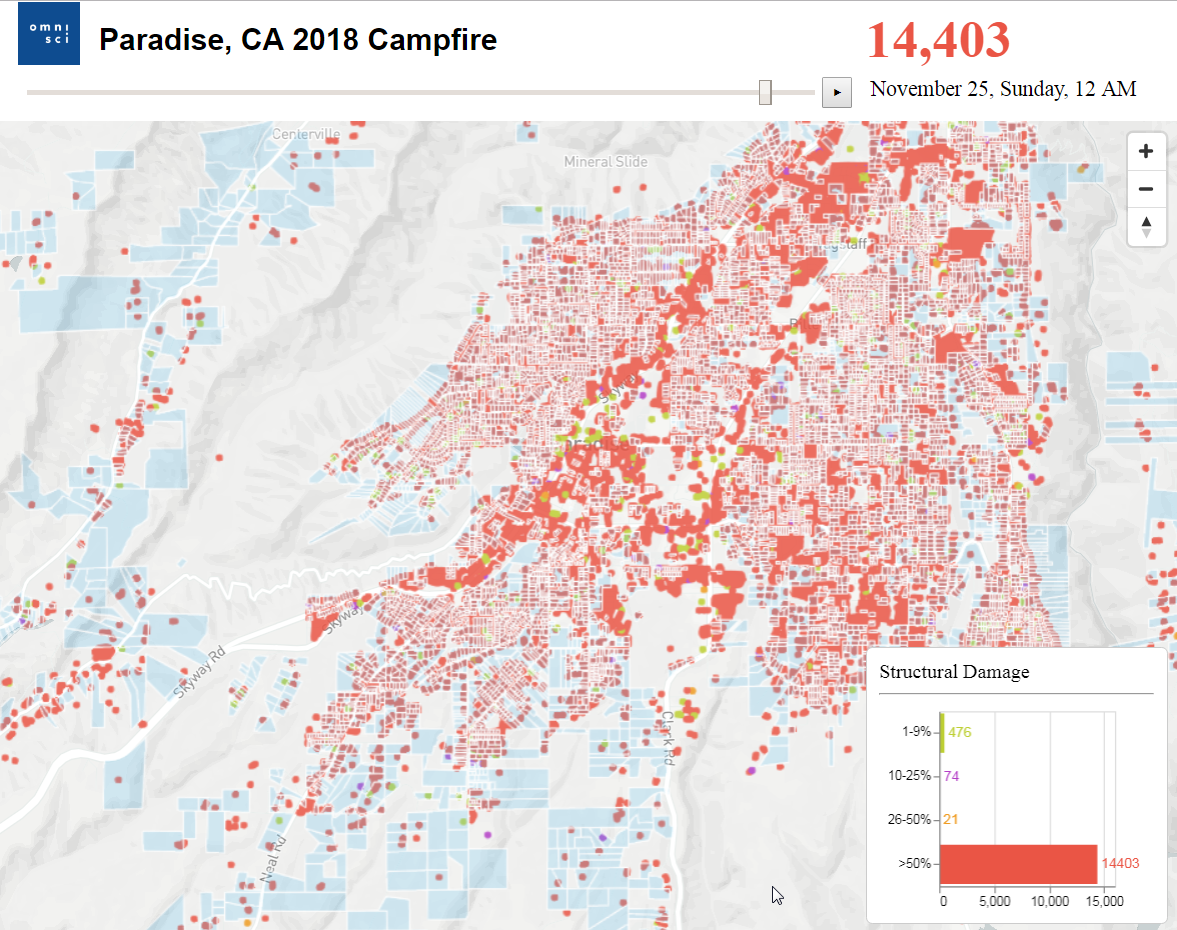
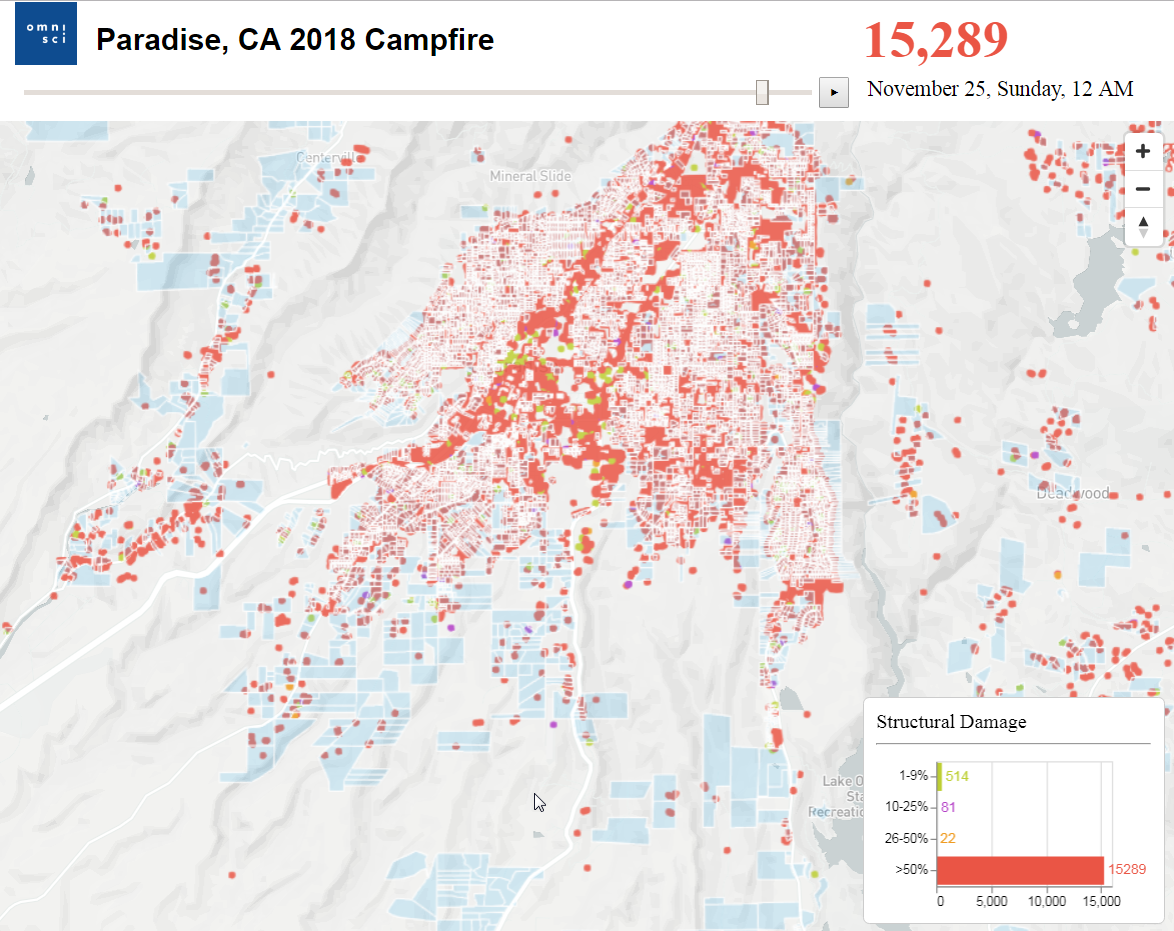
shrank damage bar chart display

diff --git a/src/components/damage-chart.js b/src/components/damage-chart.js
@@ -18,7 +18,7 @@ export function updateDamageChart(damageData) {
   const vegaSpec = {
     "$schema": "https://vega.github.io/schema/vega-lite/v3.json",
     "width": 140,
-    "height": 140,
+    "height": 100,
     "padding": 5,
     "data": {
       "values": chartData

diff --git a/src/styles.css b/src/styles.css
@@ -96,12 +96,12 @@ body {
   bottom: 10px;
   right: 10px;
   width: 240px;
-  height: 220px;
+  height: 180px;
 }
 
 .chart {
   width: 220px;
-  height: 200px;
+  height: 160px;
   margin: 0px;
   padding: 10px;
   border: 1px solid #ccc;
